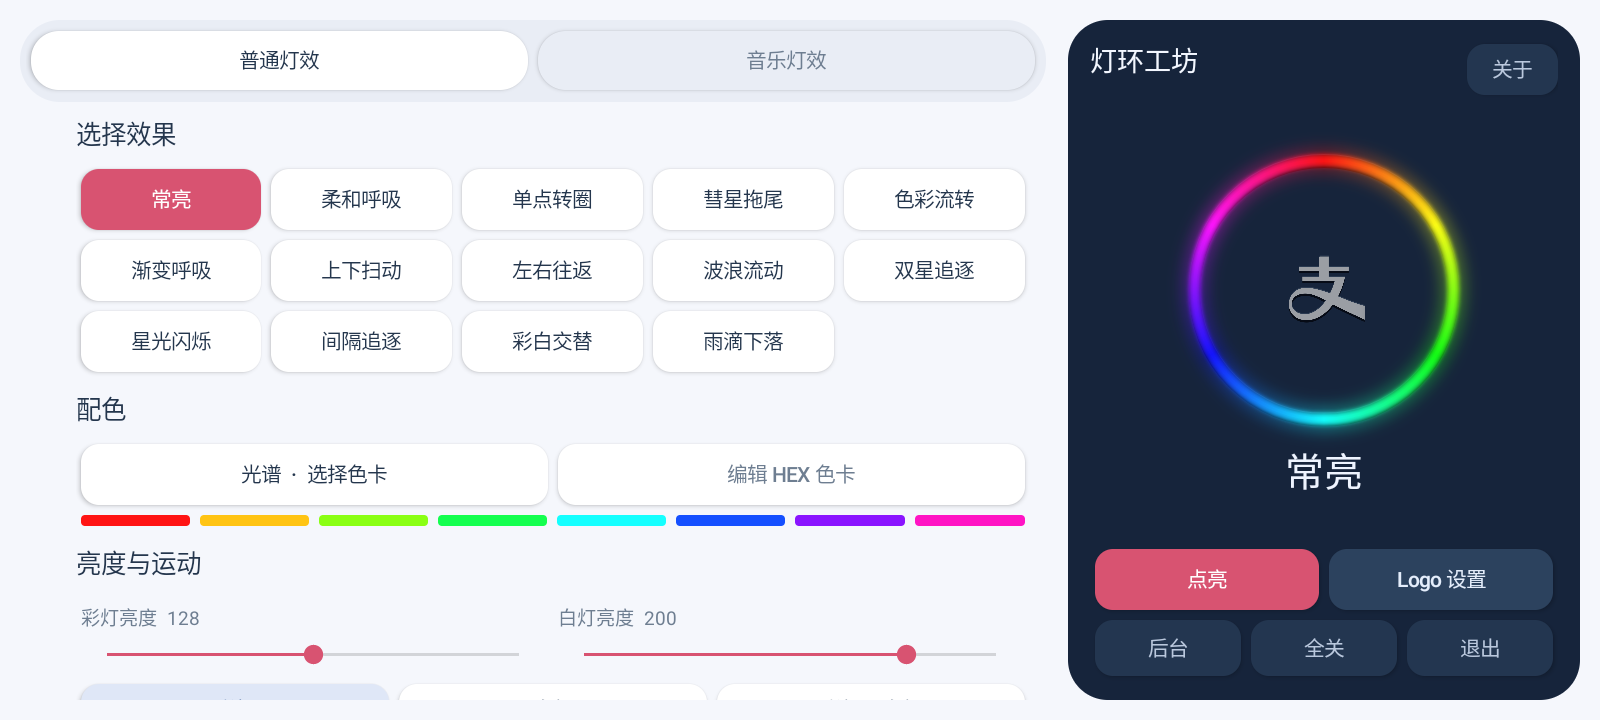
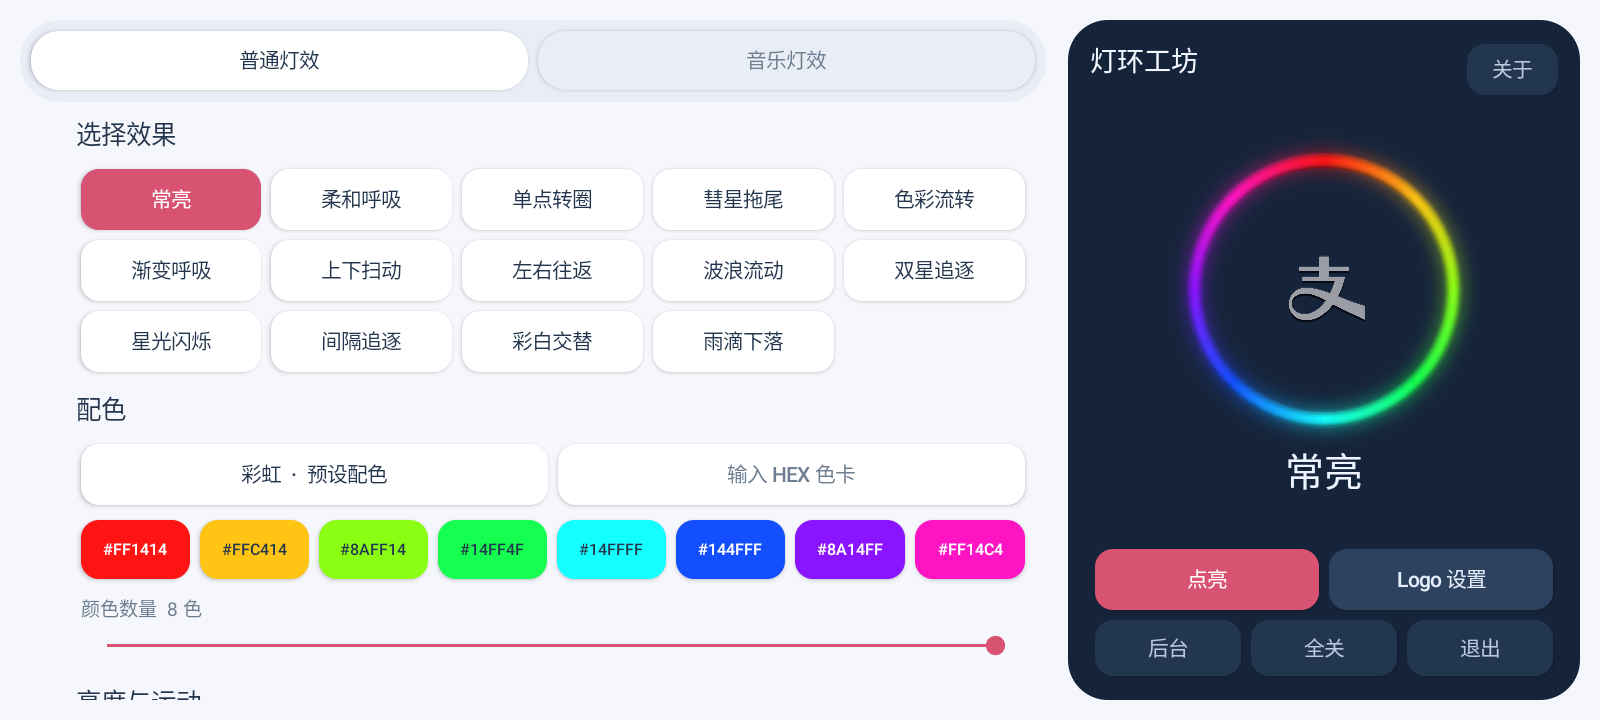
Add configurable color count and touch palette editor

diff --git a/src/com/codex/ringlab/MainActivity.java b/src/com/codex/ringlab/MainActivity.java
@@ -5,7 +5,7 @@ public class MainActivity extends Activity {
     static final String REPOSITORY="https://github.com/Cyber-Yichen/N5D-RingStudio";
     private static final int INK=0xff24364d,MUTED=0xff6e7e91,ACCENT=0xffd85371,PAPER=0xfff5f7fc,LINE=0xffe9edf5,NIGHT=0xff16243b;
     private final Handler ui=new Handler();private SharedPreferences prefs;private EffectSettings cfg;
-    private boolean building,dead,categoryMusic;private LinearLayout controls,segments;private RingView ring;private TextView status,audio;private Button normalTab,musicTab,runButton;private ProgressBar meter;private Intent pending;
+    private boolean building,dead,categoryMusic;private LinearLayout controls,segments,colorSlots;private RingView ring;private TextView status,audio;private Button normalTab,musicTab,runButton;private ProgressBar meter;private Intent pending;
     private int dp(float n){return (int)(n*getResources().getDisplayMetrics().density+.5f);}
     private int screenPx(float n){return Math.round(n*getResources().getDisplayMetrics().widthPixels/1600f);}
     private GradientDrawable bg(int color,int radius){GradientDrawable b=new GradientDrawable();b.setColor(color);b.setCornerRadius(screenPx(radius));return b;}
@@ -41,8 +41,9 @@ public class MainActivity extends Activity {
     private void choose(String mode){cfg.mode=mode;renderControls();applyRing(true);}
     private void renderControls(){building=true;controls.removeAllViews();normalTab.setBackground(bg(categoryMusic?LINE:Color.WHITE,28));normalTab.setTextColor(categoryMusic?MUTED:INK);musicTab.setBackground(bg(categoryMusic?Color.WHITE:LINE,28));musicTab.setTextColor(categoryMusic?INK:MUTED);
         section(categoryMusic?"随音乐变化":"选择效果");LinearLayout row=null;int col=0;for(int n=0;n<Patterns.IDS.length;n++){if(Patterns.music(Patterns.IDS[n])!=categoryMusic)continue;if(col%5==0){row=new LinearLayout(this);controls.addView(row);}final String mode=Patterns.IDS[n];boolean selected=mode.equals(cfg.mode);Button b=button(Patterns.NAMES[n],selected?ACCENT:Color.WHITE,selected?Color.WHITE:INK,()->choose(mode));row.addView(b,cell(38));col++;}while(col%5!=0){row.addView(new View(this),cell(38));col++;}
-        section("配色");LinearLayout colors=new LinearLayout(this);colors.addView(button(Patterns.PALETTES[cfg.palette]+"  ·  选择色卡",Color.WHITE,INK,()->paletteDialog()),cell(38));colors.addView(button("编辑 HEX 色卡",Color.WHITE,MUTED,()->customDialog()),cell(38));controls.addView(colors);
-        LinearLayout swatches=new LinearLayout(this);int[] custom=Patterns.parseColors(cfg.colors);for(int i=0;i<8;i++){View chip=new View(this);chip.setBackground(bg(Patterns.palette(cfg.palette,i/8.0,0,custom),4));swatches.addView(chip,cell(7));}controls.addView(swatches);
+        section("配色");LinearLayout colors=new LinearLayout(this);colors.addView(button(Patterns.PALETTES[cfg.palette]+"  ·  预设配色",Color.WHITE,INK,()->paletteDialog()),cell(38));colors.addView(button("输入 HEX 色卡",Color.WHITE,MUTED,()->customDialog()),cell(38));controls.addView(colors);
+        colorSlots=new LinearLayout(this);controls.addView(colorSlots);renderColorSlots();
+        slider(controls,"颜色数量",1,8,cfg.colorCount," 色",v->{resizeColors(v);renderColorSlots();},()->changed());
         section("亮度与运动");LinearLayout strengths=new LinearLayout(this);LinearLayout a=column(),b=column();strengths.addView(a,new LinearLayout.LayoutParams(0,-2,1));strengths.addView(b,new LinearLayout.LayoutParams(0,-2,1));controls.addView(strengths);
         slider(a,"彩灯亮度",0,255,cfg.brightness,"",v->cfg.brightness=v,()->changed());
         slider(b,"白灯亮度",0,255,cfg.white,"",v->cfg.white=v,()->changed());
@@ -62,6 +63,12 @@ public class MainActivity extends Activity {
         }
         building=false;
     }
+    private void renderColorSlots(){if(colorSlots==null)return;colorSlots.removeAllViews();int[] colors=Patterns.colorStops(cfg);for(int n=0;n<colors.length;n++){final int index=n;int color=colors[n];double luma=Color.red(color)*.2126+Color.green(color)*.7152+Color.blue(color)*.0722;Button swatch=button(Patterns.hex(color),color,luma>155?INK:Color.WHITE,()->colorDialog(index));swatch.setTextSize(10);swatch.setContentDescription("颜色 "+(n+1)+"，点击选色");LinearLayout.LayoutParams layout=colors.length<4?new LinearLayout.LayoutParams(dp(105),dp(37)):cell(37);layout.setMargins(dp(3),dp(6),dp(3),dp(3));colorSlots.addView(swatch,layout);}if(colors.length<4){TextView hint=text("点色块选色",11,MUTED);hint.setGravity(Gravity.CENTER_VERTICAL);hint.setPadding(dp(8),0,0,0);colorSlots.addView(hint,new LinearLayout.LayoutParams(0,dp(48),1));}}
+    private void resizeColors(int count){if(cfg.palette==13){int[] before=Patterns.parseColors(cfg.colors);if(count>before.length){int[] next=new int[count];for(int n=0;n<count;n++)next[n]=n<before.length?before[n]:Color.HSVToColor(new float[]{(float)(n*360.0/count),.9f,1});cfg.colors=Patterns.encode(next);}}cfg.colorCount=count;}
+    private void colorDialog(int index){int[] stops=Patterns.colorStops(cfg);if(index>=stops.length)return;LinearLayout content=dialogContent();content.addView(text("拖动色轮选色，在中间调整浓淡和明暗。",12,MUTED));LinearLayout entry=new LinearLayout(this);View sample=new View(this);sample.setBackground(bg(stops[index],12));entry.addView(sample,new LinearLayout.LayoutParams(dp(43),dp(38)));EditText hex=new EditText(this);hex.setSingleLine(true);hex.setText(Patterns.hex(stops[index]));hex.setTextSize(15);entry.addView(hex,new LinearLayout.LayoutParams(0,dp(43),1));content.addView(entry);final ColorPickerView[] picker=new ColorPickerView[1];final boolean[] editing={false};
+        picker[0]=new ColorPickerView(this,stops[index],color->{editing[0]=true;hex.setText(Patterns.hex(color));sample.setBackground(bg(color,12));editing[0]=false;});content.addView(picker[0],new LinearLayout.LayoutParams(-1,dp(185)));
+        hex.addTextChangedListener(new android.text.TextWatcher(){public void beforeTextChanged(CharSequence c,int st,int n,int a){}public void afterTextChanged(android.text.Editable e){}public void onTextChanged(CharSequence c,int st,int before,int count){if(!editing[0])try{int color=Patterns.parseColors(c.toString())[0];picker[0].setColor(color);sample.setBackground(bg(color,12));}catch(Exception ignored){}}});
+        AlertDialog dialog=new AlertDialog.Builder(this).setTitle("颜色 "+(index+1)).setView(content).setNegativeButton("取消",null).setPositiveButton("使用颜色",null).create();show(dialog);dialog.getWindow().setSoftInputMode(WindowManager.LayoutParams.SOFT_INPUT_STATE_ALWAYS_HIDDEN);dialog.getButton(-1).setOnClickListener(v->{try{int[] chosen=Patterns.parseColors(hex.getText().toString());if(chosen.length!=1)throw new IllegalArgumentException("这里输入一个颜色");int[] edited=cfg.palette==13?Patterns.parseColors(cfg.colors):stops;edited[index]=chosen[0];cfg.colors=Patterns.encode(edited);cfg.palette=13;cfg.colorCount=stops.length;dialog.dismiss();renderControls();changed();}catch(Exception e){hex.setError(e.getMessage());}});}
     private SeekBar slider(LinearLayout parent,String name,int min,int max,int initial,String suffix,IntConsumer value,Runnable update){
         LinearLayout box=column();box.setPadding(dp(3),dp(7),dp(5),0);TextView label=text(name+"  "+initial+suffix,12,MUTED);box.addView(label);SeekBar s=new SeekBar(this);s.setMax(max-min);s.setProgress(initial-min);s.setProgressTintList(ColorStateList.valueOf(ACCENT));s.setThumbTintList(ColorStateList.valueOf(ACCENT));box.addView(s,new LinearLayout.LayoutParams(-1,dp(30)));parent.addView(box);
         s.setOnSeekBarChangeListener(new SeekBar.OnSeekBarChangeListener(){public void onStartTrackingTouch(SeekBar v){}public void onStopTrackingTouch(SeekBar v){if(!building)update.run();}public void onProgressChanged(SeekBar v,int n,boolean fromUser){label.setText(name+"  "+(n+min)+suffix);if(fromUser){value.accept(n+min);if(!building)update.run();}}});return s;
@@ -75,11 +82,11 @@ public class MainActivity extends Activity {
     @Override public void onRequestPermissionsResult(int request,String[] permissions,int[] results){super.onRequestPermissionsResult(request,permissions,results);if(request==7&&results.length>0&&results[0]==PackageManager.PERMISSION_GRANTED&&pending!=null)startService(pending);else Toast.makeText(this,"音乐灯效需要音频权限",Toast.LENGTH_LONG).show();pending=null;}
     private void show(AlertDialog dialog){dialog.setOnDismissListener(d->immersive());dialog.show();dialog.getWindow().addFlags(WindowManager.LayoutParams.FLAG_FULLSCREEN);dialog.getWindow().getDecorView().setSystemUiVisibility(5894);dialog.getWindow().setBackgroundDrawable(bg(Color.WHITE,40));dialog.getWindow().getDecorView().setClipToOutline(true);dialog.getWindow().setLayout(Math.min(dp(520),getResources().getDisplayMetrics().widthPixels-dp(40)),-2);}
     private LinearLayout dialogContent(){LinearLayout box=column();box.setPadding(dp(22),dp(10),dp(22),dp(8));return box;}
-    private void paletteDialog(){LinearLayout content=dialogContent();AlertDialog dialog=new AlertDialog.Builder(this).setTitle("选择配色").setView(content).setNegativeButton("返回",null).create();LinearLayout row=null;for(int n=0;n<Patterns.PALETTES.length;n++){if(n%4==0){row=new LinearLayout(this);content.addView(row);}final int p=n;Button choice=button(Patterns.PALETTES[n],cfg.palette==n?0xfff7dfe7:LINE,INK,()->{dialog.dismiss();if(p==13){customDialog();return;}cfg.palette=p;if(p>=10&&p<=12){cfg.bank=2;cfg.white=p==10?72:p==11?45:32;}renderControls();changed();});row.addView(choice,cell(43));}show(dialog);}
-    private void customDialog(){LinearLayout content=dialogContent();content.addView(text("输入 1～8 个 HEX 颜色，用逗号或换行分隔。",12,MUTED));EditText input=new EditText(this);input.setText(cfg.colors);input.setTextSize(15);input.setMinLines(2);input.setMaxLines(3);content.addView(input);LinearLayout strip=new LinearLayout(this);content.addView(strip);TextView error=text("",12,ACCENT);content.addView(error);
+    private void paletteDialog(){LinearLayout content=dialogContent();AlertDialog dialog=new AlertDialog.Builder(this).setTitle("选择配色").setView(content).setNegativeButton("返回",null).create();LinearLayout row=null;for(int n=0;n<Patterns.PALETTES.length;n++){if(n%4==0){row=new LinearLayout(this);content.addView(row);}final int p=n;Button choice=button(Patterns.PALETTES[n],cfg.palette==n?0xfff7dfe7:LINE,INK,()->{dialog.dismiss();if(p==13){customDialog();return;}cfg.palette=p;cfg.colorCount=Patterns.defaultCount(p);if(p>=10&&p<=12){cfg.bank=2;cfg.white=p==10?72:p==11?45:32;}renderControls();changed();});row.addView(choice,cell(43));}show(dialog);}
+    private void customDialog(){LinearLayout content=dialogContent();content.addView(text("输入 1～8 个 HEX 颜色，用逗号或换行分隔。",12,MUTED));EditText input=new EditText(this);input.setText(Patterns.encode(Patterns.colorStops(cfg)));input.setTextSize(15);input.setMinLines(2);input.setMaxLines(3);content.addView(input);LinearLayout strip=new LinearLayout(this);content.addView(strip);TextView error=text("",12,ACCENT);content.addView(error);
         Runnable preview=()->{strip.removeAllViews();try{int[] stops=Patterns.parseColors(input.getText().toString());for(int color:stops){View v=new View(this);v.setBackground(bg(color,5));strip.addView(v,cell(20));}error.setText("");}catch(Exception e){error.setText(e.getMessage());}};
         input.addTextChangedListener(new android.text.TextWatcher(){public void beforeTextChanged(CharSequence s,int st,int c,int a){}public void onTextChanged(CharSequence s,int st,int before,int count){preview.run();}public void afterTextChanged(android.text.Editable e){}});preview.run();
-        AlertDialog dialog=new AlertDialog.Builder(this).setTitle("自定义色卡").setView(content).setNegativeButton("取消",null).setPositiveButton("使用色卡",null).create();show(dialog);dialog.getButton(-1).setOnClickListener(v->{try{Patterns.parseColors(input.getText().toString());cfg.colors=input.getText().toString().trim();cfg.palette=13;dialog.dismiss();renderControls();changed();}catch(Exception e){error.setText(e.getMessage());}});
+        AlertDialog dialog=new AlertDialog.Builder(this).setTitle("自定义色卡").setView(content).setNegativeButton("取消",null).setPositiveButton("使用色卡",null).create();show(dialog);dialog.getButton(-1).setOnClickListener(v->{try{Patterns.parseColors(input.getText().toString());cfg.colors=input.getText().toString().trim();cfg.palette=13;cfg.colorCount=Patterns.parseColors(cfg.colors).length;dialog.dismiss();renderControls();changed();}catch(Exception e){error.setText(e.getMessage());}});
     }
     private final Runnable logoApply=()->dispatch(new Intent(this,EffectsService.class).putExtra("command","logo").putExtra("logo_mode",prefs.getInt("logo_mode",2)).putExtra("logo_level",prefs.getInt("logo_level",96)));
     private void logoChanged(){ui.removeCallbacks(logoApply);ui.postDelayed(logoApply,90);}

diff --git a/src/com/codex/ringlab/Patterns.java b/src/com/codex/ringlab/Patterns.java
@@ -5,7 +5,7 @@ final class Patterns {
     static final String[] NAMES={"常亮","柔和呼吸","单点转圈","彗星拖尾","色彩流转","渐变呼吸","上下扫动","左右往返","波浪流动","双星追逐","星光闪烁","间隔追逐","彩白交替","雨滴下落","音乐呼吸","音乐电平","节拍脉冲"};
     static final int[] RGB={2,21,17,13,9,5,1,4,8,12,16,20,0,23,19,15,11,7,3,22,18,14,10,6};
     static final int[] WHITE={78,77,89,76,88,75,87,84,72,73,85,74,86,83,95,82,81,94,93,80,92,91,79,90};
-    static final String[] PALETTES={"绯红","鲜绿","深蓝","青色","紫罗兰","琥珀","纯白","光谱","深海","落日","糖霜","薄荷冰","桃花","自定义色卡"};
+    static final String[] PALETTES={"绯红","鲜绿","深蓝","青色","紫罗兰","琥珀","纯白","彩虹","深海","落日","糖霜","薄荷冰","桃花","自定义色卡"};
     static final int[] COLORS={0xffee3548,0xff31e585,0xff3d65ff,0xff00c9dc,0xffbf4cff,0xffffa338,0xffffffff};
     static boolean music(String id){return "music_breathe".equals(id)||"vu".equals(id)||"beat".equals(id);}
     static int index(String id){for(int i=0;i<IDS.length;i++)if(IDS[i].equals(id))return i;return 4;}
@@ -21,6 +21,11 @@ final class Patterns {
         int[] stops=p==8?new int[]{0xff1946fc,0xff00ddd2}:p==9?new int[]{0xffff325c,0xffffb738,0xffa22aea}:p==10?new int[]{0xff8e62ff,0xff02d9de,0xffff71b2}:p==11?new int[]{0xff20e8ac,0xff19a1ff}:p==12?new int[]{0xffff5295,0xffff9d5a}:custom;
         double x=wrap(pos+phase)*stops.length;return mix(stops[(int)x],stops[((int)x+1)%stops.length],x-Math.floor(x));
     }
+    static int defaultCount(int p){return p<7?1:p==8||p==11||p==12?2:p==9||p==10||p==13?3:8;}
+    static int[] colorStops(EffectSettings s){int[] custom=parseColors(s.colors),out=new int[s.colorCount];for(int i=0;i<out.length;i++)out[i]=s.palette==13?custom[Math.min(i,custom.length-1)]:palette(s.palette,i/(double)out.length,0,custom);return out;}
+    static int sample(int[] colors,double pos,double phase){double x=wrap(pos+phase)*colors.length;return mix(colors[(int)x],colors[((int)x+1)%colors.length],x-Math.floor(x));}
+    static String hex(int color){return String.format(java.util.Locale.US,"#%06X",color&0xffffff);}
+    static String encode(int[] colors){StringBuilder b=new StringBuilder();for(int color:colors){if(b.length()>0)b.append(',');b.append(hex(color));}return b.toString();}
     static final class Frame {final int[] channels=new int[96];int fade,whiteFade;}
     static Frame render(EffectSettings s,double phase,double audio,double pulse){
         Frame out=new Frame();double envelope=1;
@@ -28,7 +33,7 @@ final class Patterns {
         if(s.mode.equals("music_breathe"))envelope=audio;
         if(s.mode.equals("beat"))envelope=pulse;
         out.fade=(int)Math.round(s.brightness*envelope);out.whiteFade=(int)Math.round(s.white*envelope);
-        int[] custom=parseColors(s.colors);double move=s.reverse?-phase:phase;
+        int[] stops=colorStops(s);double move=s.reverse?-phase:phase;
         for(int kind=0;kind<2;kind++)for(int i=0;i<24;i++){
             double pos=(i+(kind==1?.5:0))/24.0,theta=pos*2*Math.PI;double intensity=1;
             if(s.mode.equals("chase"))intensity=Math.exp(-Math.pow(distance(pos,move)/(.025+s.softness*.00025),2));
@@ -50,7 +55,7 @@ final class Patterns {
             
             double colorPos=s.mode.equals("vu")?(1+Math.cos(theta))/2:s.mode.equals("gradient")?0:pos;
             double colorPhase=(s.mode.equals("rainbow")||s.mode.equals("gradient"))?move*.35:0;
-            int c=palette(s.palette,colorPos,colorPhase,custom);
+            int c=sample(stops,colorPos,colorPhase);
             if(kind==0){if(s.bank==1)intensity=0;int g=RGB[i]*3;out.channels[g]=(int)Math.round(Color.blue(c)*intensity);out.channels[g+1]=(int)Math.round(Color.green(c)*intensity);out.channels[g+2]=(int)Math.round(Color.red(c)*intensity);}
             else{if(s.bank==0)intensity=0;out.channels[WHITE[i]]=(int)Math.round(255*intensity);}
         }return out;

diff --git a/src/com/codex/ringlab/EffectSettings.java b/src/com/codex/ringlab/EffectSettings.java
@@ -3,7 +3,7 @@ import android.content.Intent;import org.json.JSONObject;
 
 final class EffectSettings {
     String mode="rainbow",colors="#00D9CF,#446BFF,#F064CA";
-    int brightness=96,white=40,speed=40,palette=7,bank=0,source=0,gain=50;
+    int brightness=96,white=40,speed=40,palette=7,colorCount=8,bank=0,source=0,gain=50;
     int tail=8,softness=65,width=28,waves=2,density=22,floor=2,release=65,gate=55;
     boolean reverse=false;
     EffectSettings copy(){return read(new Intent(),this);}
@@ -16,9 +16,9 @@ final class EffectSettings {
         c.tail=limit(i.getIntExtra("tail",old.tail),1,24);c.softness=limit(i.getIntExtra("softness",old.softness),0,100);c.width=limit(i.getIntExtra("width",old.width),8,80);
         c.waves=limit(i.getIntExtra("waves",old.waves),1,6);c.density=limit(i.getIntExtra("density",old.density),5,90);c.floor=limit(i.getIntExtra("floor",old.floor),0,80);
         c.release=limit(i.getIntExtra("release",old.release),0,100);c.gate=limit(i.getIntExtra("gate",old.gate),30,85);
-        Patterns.parseColors(c.colors);return c;
+        int[] parsed=Patterns.parseColors(c.colors);c.colorCount=limit(i.getIntExtra("color_count",old.colorCount),1,8);if(!i.hasExtra("color_count")&&(i.hasExtra("palette")||i.hasExtra("colors")))c.colorCount=c.palette==13?parsed.length:Patterns.defaultCount(c.palette);return c;
     }
-    Intent write(Intent i){return i.putExtra("mode",mode).putExtra("colors",colors).putExtra("brightness",brightness).putExtra("white",white).putExtra("speed",speed).putExtra("palette",palette).putExtra("bank",bank).putExtra("source",source).putExtra("gain",gain).putExtra("reverse",reverse).putExtra("tail",tail).putExtra("softness",softness).putExtra("width",width).putExtra("waves",waves).putExtra("density",density).putExtra("floor",floor).putExtra("release",release).putExtra("gate",gate);}
+    Intent write(Intent i){return i.putExtra("mode",mode).putExtra("colors",colors).putExtra("color_count",colorCount).putExtra("brightness",brightness).putExtra("white",white).putExtra("speed",speed).putExtra("palette",palette).putExtra("bank",bank).putExtra("source",source).putExtra("gain",gain).putExtra("reverse",reverse).putExtra("tail",tail).putExtra("softness",softness).putExtra("width",width).putExtra("waves",waves).putExtra("density",density).putExtra("floor",floor).putExtra("release",release).putExtra("gate",gate);}
     JSONObject json(){JSONObject j=new JSONObject();try{Intent i=write(new Intent());for(String k:i.getExtras().keySet())j.put(k,i.getExtras().get(k));}catch(Exception ignored){}return j;}
     static EffectSettings fromJson(String value,boolean music){EffectSettings c=new EffectSettings();if(music)c.mode="music_breathe";try{JSONObject j=new JSONObject(value);Intent i=new Intent();java.util.Iterator<String> it=j.keys();while(it.hasNext()){String k=it.next();Object v=j.get(k);if(v instanceof Boolean)i.putExtra(k,(Boolean)v);else if(v instanceof Number)i.putExtra(k,((Number)v).intValue());else i.putExtra(k,String.valueOf(v));}c=read(i,c);}catch(Exception ignored){}if(Patterns.music(c.mode)!=music)c.mode=music?"music_breathe":"rainbow";return c;}
 }

diff --git a/src/com/codex/ringlab/ColorPickerView.java b/src/com/codex/ringlab/ColorPickerView.java
@@ -1,0 +1,20 @@
+package com.codex.ringlab;
+import android.content.Context;import android.graphics.*;import android.view.*;
+final class ColorPickerView extends View {
+    interface Listener {void changed(int color);}
+    private final Paint p=new Paint(3);private final RectF square=new RectF();private final float[] hsv={0,.8f,1};private Listener listener;private float cx,cy,radius,band;private int target;
+    ColorPickerView(Context c,int color,Listener listener){super(c);this.listener=listener;Color.colorToHSV(color,hsv);setLayerType(View.LAYER_TYPE_SOFTWARE,null);setContentDescription("触摸色轮与明暗选色区域");setImportantForAccessibility(View.IMPORTANT_FOR_ACCESSIBILITY_YES);setClickable(true);}
+    void setColor(int color){Color.colorToHSV(color,hsv);invalidate();}
+    int color(){return Color.HSVToColor(hsv);}
+    @Override protected void onDraw(Canvas c){cx=getWidth()/2f;cy=getHeight()/2f;radius=Math.min(getWidth(),getHeight())*.42f;band=radius*.16f;square.set(cx-radius*.48f,cy-radius*.48f,cx+radius*.48f,cy+radius*.48f);
+        p.setStyle(Paint.Style.STROKE);p.setStrokeWidth(band);p.setShader(new SweepGradient(cx,cy,new int[]{Color.RED,Color.YELLOW,Color.GREEN,Color.CYAN,Color.BLUE,Color.MAGENTA,Color.RED},null));c.drawCircle(cx,cy,radius,p);p.setShader(null);
+        int hue=Color.HSVToColor(new float[]{hsv[0],1,1});p.setStyle(Paint.Style.FILL);p.setShader(new LinearGradient(square.left,0,square.right,0,Color.WHITE,hue,Shader.TileMode.CLAMP));c.drawRect(square,p);p.setShader(new LinearGradient(0,square.top,0,square.bottom,Color.TRANSPARENT,Color.BLACK,Shader.TileMode.CLAMP));c.drawRect(square,p);p.setShader(null);
+        double angle=Math.toRadians(hsv[0]);cursor(c,cx+(float)Math.cos(angle)*radius,cy+(float)Math.sin(angle)*radius,band*.46f);cursor(c,square.left+hsv[1]*square.width(),square.bottom-hsv[2]*square.height(),band*.40f);
+    }
+    private void cursor(Canvas c,float x,float y,float radius){p.setStyle(Paint.Style.STROKE);p.setStrokeWidth(4);p.setColor(0xff24364d);c.drawCircle(x,y,radius,p);p.setStrokeWidth(2);p.setColor(Color.WHITE);c.drawCircle(x,y,radius,p);p.setStyle(Paint.Style.FILL);}
+    @Override public boolean onTouchEvent(MotionEvent e){float x=e.getX(),y=e.getY();int action=e.getActionMasked();if(action==MotionEvent.ACTION_DOWN){double d=Math.hypot(x-cx,y-cy);target=square.contains(x,y)?2:Math.abs(d-radius)<band*1.4?1:0;if(target==0)return false;getParent().requestDisallowInterceptTouchEvent(true);}
+        if(target==1){double a=Math.toDegrees(Math.atan2(y-cy,x-cx));hsv[0]=(float)((a+360)%360);}else if(target==2){hsv[1]=(float)Patterns.clamp((x-square.left)/square.width());hsv[2]=(float)Patterns.clamp((square.bottom-y)/square.height());}
+        if(target!=0){invalidate();listener.changed(color());}if(action==MotionEvent.ACTION_UP||action==MotionEvent.ACTION_CANCEL){target=0;getParent().requestDisallowInterceptTouchEvent(false);performClick();}return true;
+    }
+    @Override public boolean performClick(){super.performClick();return true;}
+}

diff --git a/README.md b/README.md
@@ -6,6 +6,8 @@
 
 ![灯环工坊界面](docs/interface.png)
 
+![触摸选色](docs/color-picker.png)
+
 ## 已测试平台
 
 | 项目 | 实际测试环境 |
@@ -32,7 +34,7 @@
 - 普通 / 音乐灯效分段切换，各自记住设置。
 - 常亮、呼吸、转圈、彗星、色彩流转、上下扫动、左右往返、波浪、双星、星光、间隔追逐、彩白交替、雨滴。
 - 音乐呼吸、音乐电平、节拍脉冲；支持麦克风与本机播放输入。
-- 电平灯遵循所选配色；支持输入 1～8 个六位 HEX 颜色。
+- 电平灯遵循所选配色；支持输入 1～8 个六位 HEX 颜色；颜色数量滑条控制实际参与配色的色数，单色预设自动设为 1 色。点击色块可用色轮与明暗区域触摸选色。
 - 拖尾长度、光头柔和度、光带宽度、波峰数量、星光密度、呼吸最低亮度。
 - 彩灯与白灯独立亮度；糖霜、薄荷冰、桃花预设自动配合白灯。
 - Logo 独立关闭、固定亮度、跟随环灯或跟随音乐。调整 Logo 不重启环灯动画。
